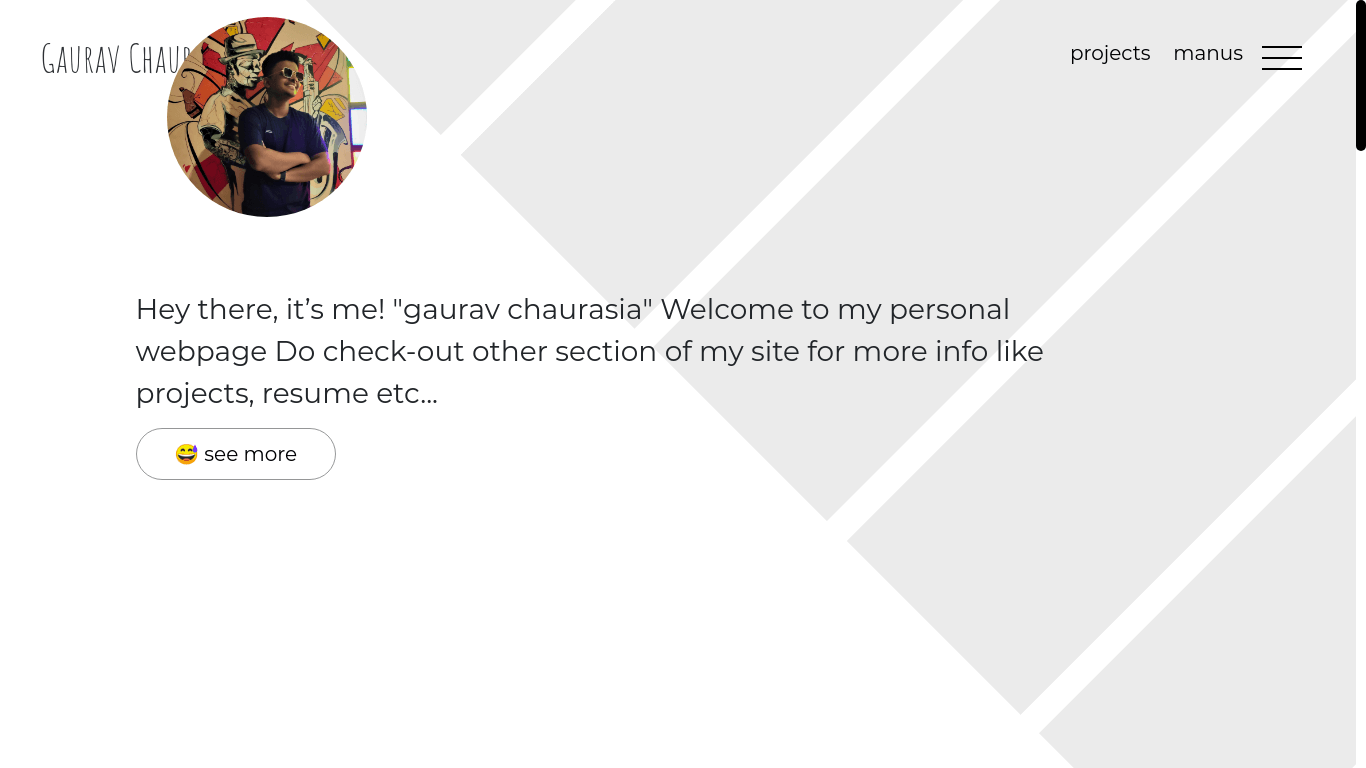
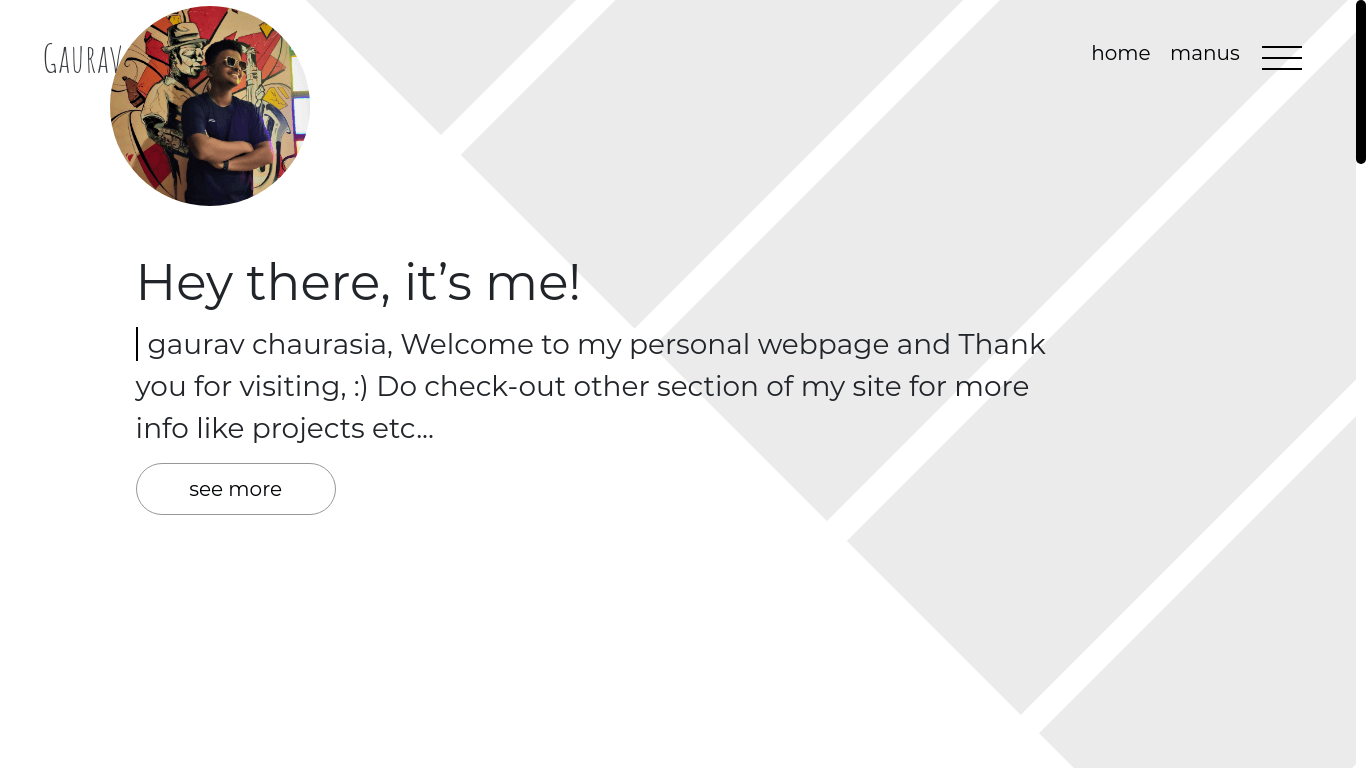
final touches in main sections

diff --git a/index.html b/index.html
@@ -177,7 +177,7 @@
                         like projects etc...
                 </div>
                 <a href="#projects" class="see-more">
-                    &#128071; see more
+                    see more
                 </a>
             </div>
             <div class="blocks">
@@ -316,9 +316,9 @@
                     <div class="col-md-6">
                         <div class="card" data-aos="fade-left">
                             <div class="project-img img4">
-                                <img src="./assets/img/game-on-start.png" alt="arcade game">
+                                <img src="./assets/img/PLP.png" alt="personal learning project">
                                 <div class="project-title">
-                                    <h4>dice game</h4>
+                                    <h4>PLP</h4>
                                 </div>
                             </div>
                             <div>
@@ -335,11 +335,13 @@
                                     <span class="alert-dark">status: in-progress</span>
                                 </div>
                                 <p class="project-content">
-                                    this is a simple dice game build to learn and use DOM and javascript to make it more useful I bundled many such simple
-                                    application into one. and included many more technologies like Nodejs, express, ejs...etc to make it a good project for
-                                    learning those technologies.
+                                    This is a project to learn and implement many technologies, in this I have tried to implement many
+                                    different common web application into one and tried to make it useful also
+                                    tried to keep code separate and organized using Module Structure and one of application of
+                                    this project is budget list which calculate and keeps track of the budget.
+                                    details can be found on Github in README section
                                     <br>
-                                    <a class="link-to-projects" href="https://github.com/gaurav-chaurasia/dice-game">
+                                    <a class="link-to-projects" href="https://github.com/gaurav-chaurasia/PLP">
                                         link to source code
                                     </a>
                                 </p>

diff --git a/css/style.css b/css/style.css
@@ -81,7 +81,7 @@ section {
   transform: translate(-50%, -50%) scale(1);
 }
 .animate-cursor {
-  transform: translate(-50%, -50%) scale(5);
+  transform: translate(-50%, -50%) scale(6);
 }
 
 .on-logo {
@@ -119,7 +119,7 @@ li a:hover {
   background-color: darkgoldenrod;
 }
 .on-cross {
-  transform: translate(-50%, -50%) scale(6);
+  transform: translate(-50%, -50%) scale(8);
   transform-origin: center;
   background: #fff;
   mix-blend-mode: difference;
@@ -252,9 +252,8 @@ nav {
   animation-duration: 1s;
 }
 .my-name {
-  border-left: 2px solid teal;
+  border-left: 2px solid #000000;
   padding-left: 10px;
-  color: teal;
 }
 .main-page-content {
   /* display: flex; */

diff --git a/css/query.css b/css/query.css
@@ -49,6 +49,9 @@
     .contact-img {
         padding-top: 2rem;
     }
+    .contact-img img {
+        transform: translateX(-25px);
+    }
     form input {
         width: 100%;
     }
